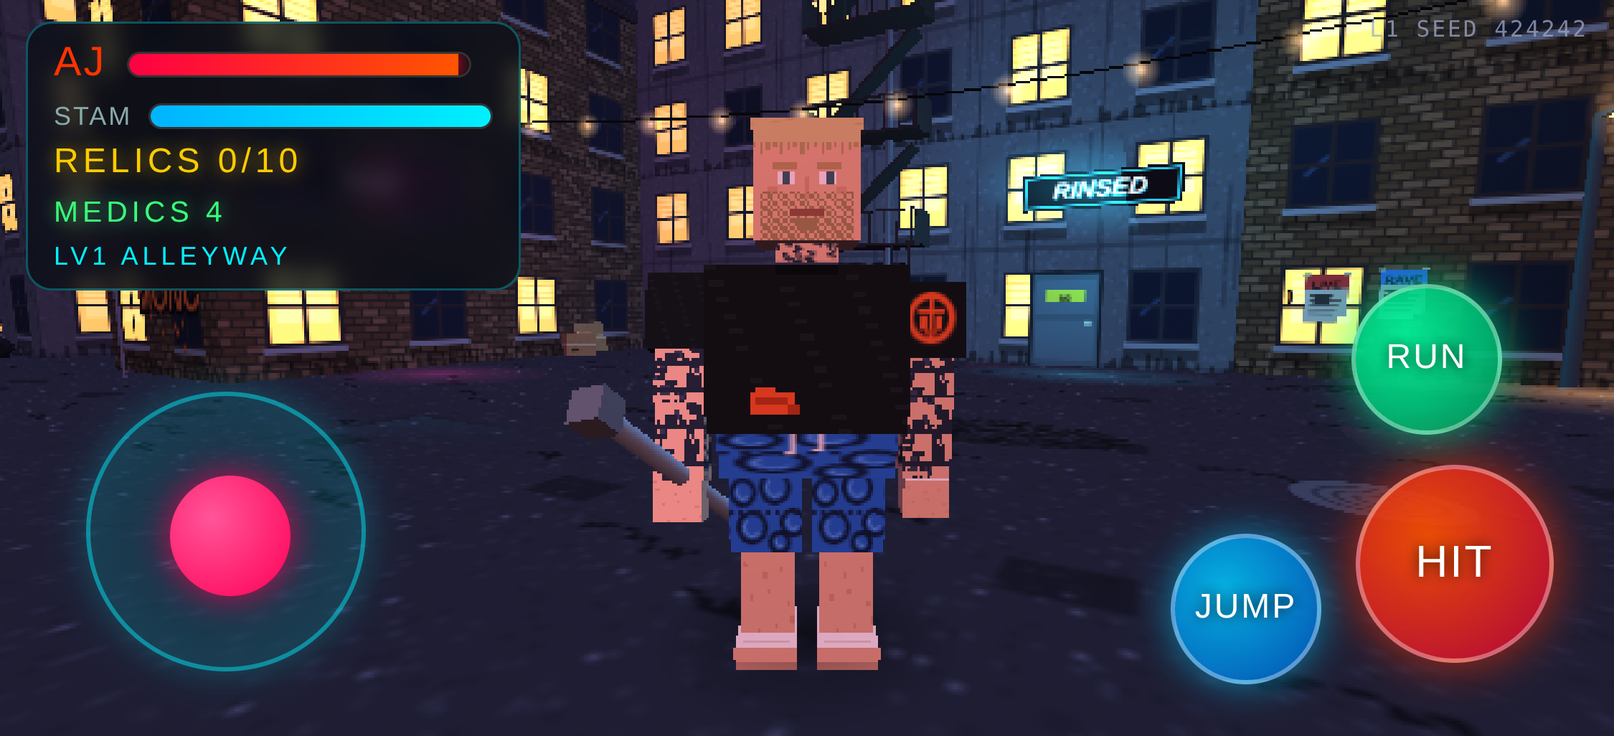
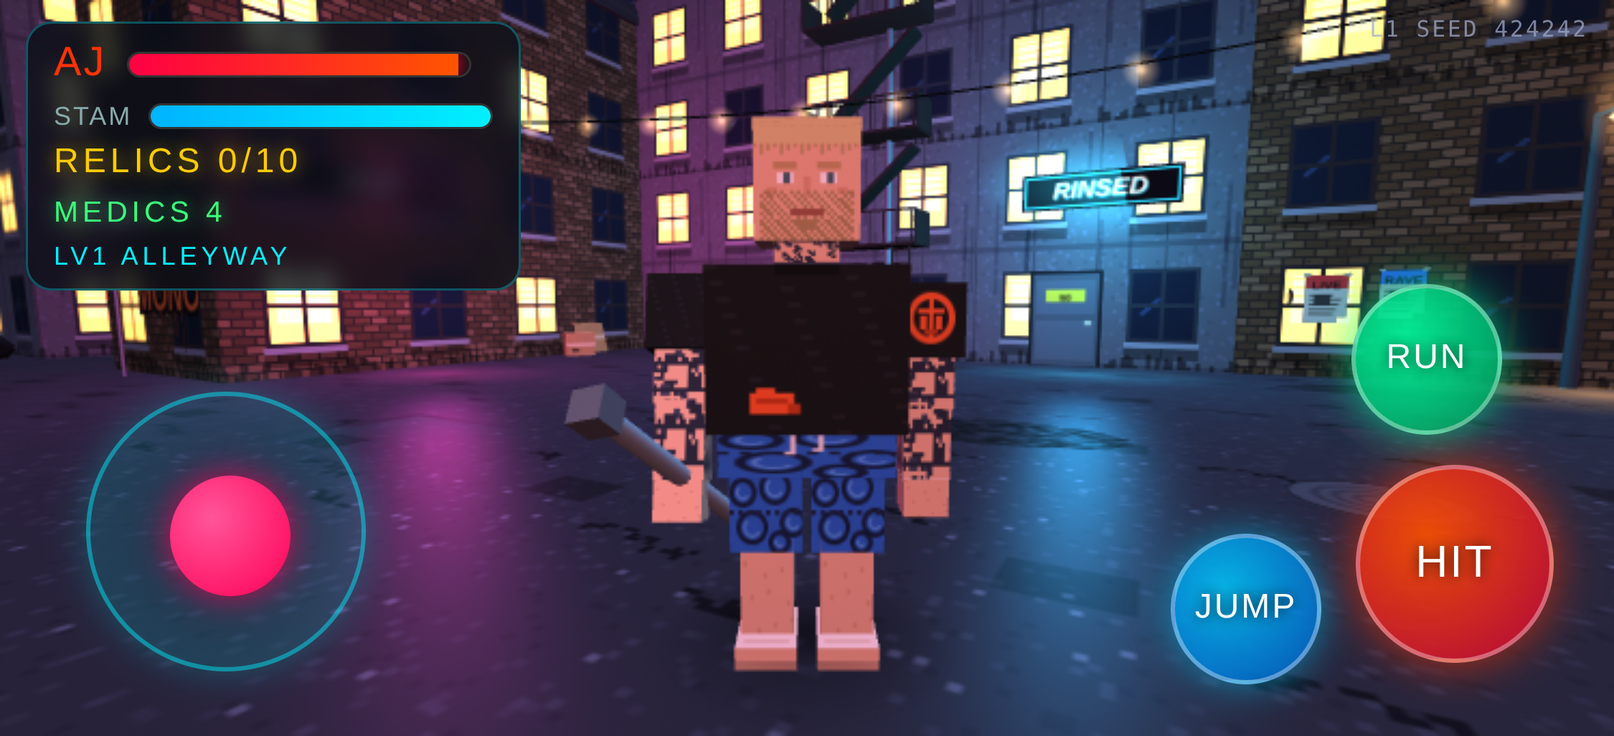
Cigarette-style relics; early-PS2 graphics pass (540p, mipmapped 2x textures, Phong, wet asphalt, lighter fog, MSAA, adaptive res)

diff --git a/index.html b/index.html
@@ -36,8 +36,6 @@
             width: 100%;
             height: 100%;
             display: block;
-            image-rendering: pixelated;
-            image-rendering: crisp-edges;
         }
 
         /* OVERLAYS */
@@ -489,18 +487,29 @@
         }
 
         /* --- INIT --- */
-        // N64-style: low internal resolution, upscaled with pixelated CSS
-        const RENDER_HEIGHT = 300;
-        function renderScale() { return Math.min(1, RENDER_HEIGHT / Math.max(1, window.innerHeight)); }
+        // early-PS2 look: ~540px internal height (native on most phones in landscape), smooth upscale
+        const RENDER_HEIGHT = 540;
+        let renderCap = RENDER_HEIGHT; // lowered automatically if the phone can't hold ~30 fps
+        function renderScale() { return Math.min(1, renderCap / Math.max(1, window.innerHeight)); }
+        // adaptive resolution: if the frame rate sags below ~28fps for 3s, step the internal height down (min 300)
+        let perfT = 0, perfN = 0;
+        function perfGuard(rawDt) {
+            if (gameState !== 'playing' || window.__noAdapt) { perfT = perfN = 0; return; }
+            perfT += rawDt; perfN++;
+            if (perfT < 3) return;
+            const fps = perfN / perfT; perfT = perfN = 0;
+            const cur = Math.min(renderCap, window.innerHeight);
+            if (fps < 28 && cur > 300) { renderCap = Math.max(300, Math.round(cur * 0.8)); onWindowResize(); }
+        }
         function init() {
             clock = new THREE.Clock();
             scene = new THREE.Scene();
             scene.background = new THREE.Color(0x1a1530);
-            scene.fog = new THREE.Fog(0x1a1530, 9, 48); // heavy GoldenEye-style distance fog
+            scene.fog = new THREE.Fog(0x1a1530, 16, 88); // lighter fog, longer draw distance
 
-            camera = new THREE.PerspectiveCamera(60, window.innerWidth / window.innerHeight, 0.1, 60);
+            camera = new THREE.PerspectiveCamera(60, window.innerWidth / window.innerHeight, 0.1, 95);
 
-            renderer = new THREE.WebGLRenderer({ canvas: $('canvas3d'), antialias: false, powerPreference: 'high-performance' });
+            renderer = new THREE.WebGLRenderer({ canvas: $('canvas3d'), antialias: true, powerPreference: 'high-performance' });
             renderer.setPixelRatio(1);
             const s = renderScale();
             renderer.setSize(Math.round(window.innerWidth * s), Math.round(window.innerHeight * s), false);
@@ -546,7 +555,7 @@
             const T = {};
             T.tattooArm = pixTex(16, 16, (g) => { px(g, 0, 0, SK, 16, 16); ink(g, 16, 16, 16, 1); px(g, 3, 3, INK, 4, 3); px(g, 10, 9, INK, 4, 4); px(g, 2, 11, INK2, 3, 3); for (let y = 5; y < 16; y += 7) px(g, 0, y, INK, 16, 1); }, true);
             T.neck = pixTex(32, 16, (g) => { px(g, 0, 0, SK, 32, 16); ink(g, 32, 12, 22, 7); px(g, 0, 12, INK2, 32, 4); }, true);
-            T.skin = new THREE.MeshLambertMaterial({ color: 0xe9b494 });
+            T.skin = phong({ color: 0xe9b494 });
             T.skinTex = pixTex(16, 16, (g) => { px(g, 0, 0, SK, 16, 16); for (let i = 0; i < 10; i++) px(g, (i * 7) % 16, (i * 5) % 16, SK2); }, true);
             T.foot = pixTex(16, 16, (g) => { px(g, 0, 0, SK, 16, 16); px(g, 5, 4, INK, 6, 2); px(g, 6, 6, INK, 2, 4); px(g, 9, 7, INK2, 3, 2); px(g, 2, 13, SK2, 12, 1); }, true);
             // face: buzzed light-blond hair line, light brows, blue-grey eyes, stubbly beard
@@ -595,12 +604,12 @@
                 for (let x = 0; x < 32; x += 4) px(g, x, 15, '#1a2448', 2, 2);
             }, true);
             T.shortsFront = pixTex(32, 32, (g) => {
-                g.drawImage(T.shorts.image, 0, 0);
+                g.drawImage(T.shorts.image, 0, 0, 32, 32);
                 px(g, 0, 0, '#1a3a8a', 32, 4);                                            // waistband
                 px(g, 13, 3, '#f0f0f0', 1, 12); px(g, 18, 3, '#f0f0f0', 1, 10);            // white drawstrings
                 px(g, 12, 15, '#f0f0f0', 2, 2); px(g, 17, 13, '#f0f0f0', 2, 2);
             }, true);
-            const L = (map) => new THREE.MeshLambertMaterial({ map });
+            const L = (map) => phong({ map });
             const M = {};
             for (const k in T) M[k] = T[k].isTexture ? L(T[k]) : T[k];
             TEX.aj = M;
@@ -641,9 +650,9 @@
                 arms[s === 1 ? 'L' : 'R'] = sh;
             }
             // Melee Pipe Weapon (in his right hand)
-            pipeWeapon = new THREE.Mesh(new THREE.CylinderGeometry(0.045, 0.045, 1.1, 6), new THREE.MeshLambertMaterial({ color: 0x8a949c }));
+            pipeWeapon = new THREE.Mesh(new THREE.CylinderGeometry(0.045, 0.045, 1.1, 10), phong({ color: 0x8a949c }));
             player.add(pipeWeapon);
-            const elbow = new THREE.Mesh(new THREE.BoxGeometry(0.13, 0.13, 0.13), new THREE.MeshLambertMaterial({ color: 0x5a6068 }));
+            const elbow = new THREE.Mesh(new THREE.BoxGeometry(0.13, 0.13, 0.13), phong({ color: 0x5a6068 }));
             elbow.position.y = 0.55; pipeWeapon.add(elbow);
             player.userData.parts = { legL: legs[1], legR: legs[0], armL: arms.L, armR: arms.R, head, torso };
             player.position.set(0, 0, 0);
@@ -656,19 +665,25 @@
         // texture randomness uses its own stream so textures never change between maps
         let _tseed = 777;
         function srandT() { _tseed = (_tseed * 16807) % 2147483647; return (_tseed - 1) / 2147483646; }
-        function pixTex(w, h, draw, nearest) {
-            const c = document.createElement('canvas'); c.width = w; c.height = h;
-            const g = c.getContext('2d'); g.imageSmoothingEnabled = false;
+        // textures are drawn in "design pixels" and supersampled 2x (64 -> 128, 128 -> 256),
+        // then filtered linearly with mipmaps (smooth PS2-era look instead of chunky nearest-neighbour)
+        const TEX_SS = 2;
+        function pixTex(w, h, draw) {
+            const c = document.createElement('canvas'); c.width = w * TEX_SS; c.height = h * TEX_SS;
+            const g = c.getContext('2d'); g.imageSmoothingEnabled = true; g.scale(TEX_SS, TEX_SS);
             draw(g, w, h);
             const t = new THREE.CanvasTexture(c);
-            t.generateMipmaps = false;
-            t.minFilter = THREE.LinearFilter;
-            t.magFilter = nearest ? THREE.NearestFilter : THREE.LinearFilter;
+            const pot = (n) => (n & (n - 1)) === 0;
+            t.generateMipmaps = pot(c.width) && pot(c.height);
+            t.minFilter = t.generateMipmaps ? THREE.LinearMipmapLinearFilter : THREE.LinearFilter;
+            t.magFilter = THREE.LinearFilter;
+            t.anisotropy = 2;
             t.wrapS = t.wrapT = THREE.RepeatWrapping;
             return t;
         }
         function px(g, x, y, c, w = 1, h = 1) { g.fillStyle = c; g.fillRect(x, y, w, h); }
-        function lambert(o) { return new THREE.MeshLambertMaterial(Object.assign({ dithering: true }, o)); }
+        function phong(o) { return new THREE.MeshPhongMaterial(Object.assign({ specular: 0x0c0c0c, shininess: 10, dithering: true }, o)); }
+        function lambert(o) { return phong(o); } // per-pixel shading (was Gouraud Lambert)
 
         function drawWindows(g, ge, frame) {
             for (let by = 0; by < 2; by++) for (let bx = 0; bx < 2; bx++) {
@@ -714,8 +729,8 @@
                 drawWindows(g, ge, kind === 'concrete' ? '#2a2c34' : '#2a2226');
             });
             const em = new THREE.CanvasTexture(e);
-            em.generateMipmaps = false; em.minFilter = THREE.LinearFilter; em.wrapS = em.wrapT = THREE.RepeatWrapping;
-            return lambert({ map, emissive: 0xffffff, emissiveMap: em, emissiveIntensity: 0.9 });
+            em.minFilter = THREE.LinearMipmapLinearFilter; em.wrapS = em.wrapT = THREE.RepeatWrapping;
+            return lambert({ map, emissive: 0xffffff, emissiveMap: em, emissiveIntensity: 1.15 });
         }
         function signTex(text, color) {
             return pixTex(128, 32, (g) => {
@@ -740,7 +755,7 @@
                 }
                 px(g, 10, 40, 'rgba(0,0,0,0.3)', 12, 8); // oil stain
             });
-            TEX.ground = lambert({ map: TEX.asphalt });
+            TEX.ground = phong({ map: TEX.asphalt, specular: 0x4a5468, shininess: 38 }); // wet-asphalt sheen under the lamps
             TEX.ground.map.repeat.set(40, 40);
             TEX.rust = lambert({ map: pixTex(64, 32, (g) => {
                 px(g, 0, 0, '#2a5a44', 64, 32);
@@ -887,13 +902,13 @@
         const LEVELS = [
             {
                 id: 'alley', name: 'ALLEYWAY', sub: 'Alleyway Adventure', river: false,
-                bg: 0x1a1530, fogNear: 9, fogFar: 48, hemiSky: 0x8a86c8, hemiGround: 0x2a1a22, hemiI: 0.75, amb: 0x30283c, ambI: 0.45, moon: 0xa8b4ff, moonI: 0.5,
+                bg: 0x1a1530, fogNear: 16, fogFar: 88, hemiSky: 0x8a86c8, hemiGround: 0x2a1a22, hemiI: 0.75, amb: 0x30283c, ambI: 0.45, moon: 0xa8b4ff, moonI: 0.5,
                 lamp: 0xffb060, pool: 0x8a5a24, warm: 0xffa050, barrels: 7,
                 signs: [['RINSED', '#2ad8ff', 0x2ad8ff], ['BAR', '#ff2a8a', 0xff2a8a], ['PAWN', '#ff6a2a', 0xff6a2a], ['24H', '#6aff3a', 0x6aff3a], ['MOTEL', '#ff2a8a', 0xff2a8a], ['NOODLE', '#2ad8ff', 0x2ad8ff], ['ARCADE', '#ffd02a', 0xffd02a], ['TATTOO', '#b04aff', 0xb04aff], ['LIQUOR', '#6aff3a', 0x6aff3a]]
             },
             {
                 id: 'river', name: 'RIVERSIDE', sub: 'Riverside Camp', river: true,
-                bg: 0x34203a, fogNear: 8, fogFar: 46, hemiSky: 0xc08a90, hemiGround: 0x1a1420, hemiI: 0.7, amb: 0x3a2a34, ambI: 0.45, moon: 0xffa080, moonI: 0.35,
+                bg: 0x34203a, fogNear: 15, fogFar: 84, hemiSky: 0xc08a90, hemiGround: 0x1a1420, hemiI: 0.7, amb: 0x3a2a34, ambI: 0.45, moon: 0xffa080, moonI: 0.35,
                 lamp: 0xff9030, pool: 0x9a5010, warm: 0xff8a28, barrels: 11,
                 signs: [['PIER 9', '#2ad8ff', 0x2ad8ff], ['MOTEL', '#ff2a8a', 0xff2a8a], ['DINER', '#ff6a2a', 0xff6a2a], ['24H', '#6aff3a', 0x6aff3a], ['LIQUOR', '#ff2a8a', 0xff2a8a], ['CAFE', '#2ad8ff', 0x2ad8ff], ['TAXI', '#ffd02a', 0xffd02a], ['BRIDGE ST', '#b04aff', 0xb04aff], ['HOTEL', '#6aff3a', 0x6aff3a]]
             }
@@ -919,7 +934,7 @@
                 for (let k = 0; k < 9; k++) { const y = srandT() * 64 | 0, x = srandT() * 64 | 0; px(g, x, y, '#3a7a88', 8 + srandT() * 8 | 0, 1); }
             });
             TEX.waterTex.repeat.set(36, 5);
-            TEX.water = new THREE.MeshLambertMaterial({ map: TEX.waterTex, emissive: 0x0a1a22, emissiveIntensity: 1 });
+            TEX.water = phong({ map: TEX.waterTex, emissive: 0x0a1a22, emissiveIntensity: 1 });
             TEX.waterHiTex = pixTex(64, 64, (g) => {
                 g.clearRect(0, 0, 64, 64);
                 for (let k = 0; k < 14; k++) { const y = srandT() * 64 | 0, x = srandT() * 64 | 0; px(g, x, y, 'rgba(255,170,90,0.55)', 4 + srandT() * 10 | 0, 1); }
@@ -1304,7 +1319,7 @@
                 sign.position.set(x, y, z);
                 sign.rotation.y = Math.atan2(s.nx, s.nz);
                 cityGroup.add(sign);
-                const halo = new THREE.Sprite(new THREE.SpriteMaterial({ map: TEX.glow, color: hex, transparent: true, opacity: 0.55, blending: THREE.AdditiveBlending, depthWrite: false }));
+                const halo = new THREE.Sprite(new THREE.SpriteMaterial({ map: TEX.glow, color: hex, transparent: true, opacity: 0.75, blending: THREE.AdditiveBlending, depthWrite: false }));
                 halo.position.set(x + s.nx * 0.3, y, z + s.nz * 0.3); halo.scale.set(6, 2.6, 1);
                 cityGroup.add(halo);
                 // coloured spill on the wet ground
@@ -1367,7 +1382,7 @@
                 if (srand() < 0.18) {
                     const u = (srand() - 0.5) * 5;
                     const [x, , z] = W(s, u, 0, 0.14);
-                    pipes.add(GEO.pipe || (GEO.pipe = new THREE.CylinderGeometry(0.1, 0.1, 1, 6)), x, s.h / 2, z, 0, 0, 0, 1, s.h, 1);
+                    pipes.add(GEO.pipe || (GEO.pipe = new THREE.CylinderGeometry(0.1, 0.1, 1, 10)), x, s.h / 2, z, 0, 0, 0, 1, s.h, 1);
                     if (srand() < 0.5) { const [x2, , z2] = W(s, 0, 0, 0.18); pipes.add(GEO.pipe, x2, 2.8 + srand() * 2, z2, ry, Math.PI / 2, 0, 1.3, 6, 1.3); }
                 }
                 // wall AC unit
@@ -1440,9 +1455,9 @@
 
             // street lamps: instanced poles/arms, glow sprites as one Points cloud, warm light pools on the ground
             if (lampSpots.length) {
-                const poles = new THREE.InstancedMesh(GEO.pole || (GEO.pole = new THREE.CylinderGeometry(0.08, 0.12, 5, 6)), metalMat, lampSpots.length);
+                const poles = new THREE.InstancedMesh(GEO.pole || (GEO.pole = new THREE.CylinderGeometry(0.08, 0.12, 5, 10)), metalMat, lampSpots.length);
                 const arms = new THREE.InstancedMesh(unitBox(), metalMat, lampSpots.length);
-                const heads = new THREE.InstancedMesh(GEO.lampHead || (GEO.lampHead = new THREE.CylinderGeometry(0.12, 0.35, 0.3, 6)), new THREE.MeshBasicMaterial({ color: new THREE.Color(LV.lamp).lerp(new THREE.Color(0xffffff), 0.4) }), lampSpots.length);
+                const heads = new THREE.InstancedMesh(GEO.lampHead || (GEO.lampHead = new THREE.CylinderGeometry(0.12, 0.35, 0.3, 10)), new THREE.MeshBasicMaterial({ color: new THREE.Color(LV.lamp).lerp(new THREE.Color(0xffffff), 0.4) }), lampSpots.length);
                 const pools = new THREE.InstancedMesh(GEO.pool || (GEO.pool = new THREE.PlaneGeometry(1, 1)), TEX.pool, lampSpots.length);
                 [poles, arms, heads, pools].forEach(m => m.userData.sharedGeo = true);
                 const glowPos = [];
@@ -1456,7 +1471,7 @@
                 });
                 cityGroup.add(poles, arms, heads, pools);
                 const gg = new THREE.BufferGeometry(); gg.setAttribute('position', new THREE.Float32BufferAttribute(glowPos, 3));
-                cityGroup.add(new THREE.Points(gg, new THREE.PointsMaterial({ map: TEX.glow, color: LV.lamp, size: 3.2, transparent: true, opacity: 0.8, blending: THREE.AdditiveBlending, depthWrite: false })));
+                cityGroup.add(new THREE.Points(gg, new THREE.PointsMaterial({ map: TEX.glow, color: LV.lamp, size: 3.6, transparent: true, opacity: 0.95, blending: THREE.AdditiveBlending, depthWrite: false })));
                 // two real warm lights: the lamps closest to spawn
                 lampSpots.slice().sort((a, b) => Math.hypot(a[0], a[1]) - Math.hypot(b[0], b[1])).slice(0, 2).forEach(([x, z, nx, nz]) => {
                     const pl = new THREE.PointLight(LV.warm, 1.3, 16, 1.5);
@@ -1658,11 +1673,19 @@
         const SHARED = {};
         function sharedAssets() {
             if (SHARED.ready) return SHARED;
-            SHARED.relicGeo = new THREE.OctahedronGeometry(0.42, 0);
-            SHARED.relicMat = new THREE.MeshLambertMaterial({ color: 0xffcc00, emissive: 0xffaa00, emissiveIntensity: 0.9 });
-            SHARED.haloMat = new THREE.SpriteMaterial({ map: TEX.glow, color: 0xffc020, transparent: true, opacity: 0.7, blending: THREE.AdditiveBlending, depthWrite: false });
+            // relic: ~0.5m thin white open-ended tube (cigarette-like), charred black end, hollow ends
+            SHARED.relicPaperGeo = new THREE.CylinderGeometry(0.045, 0.045, 0.42, 14, 1, true).translate(0, -0.04, 0);
+            SHARED.relicInnerGeo = new THREE.CylinderGeometry(0.036, 0.036, 0.5, 14, 1, true);
+            SHARED.relicCharGeo = new THREE.CylinderGeometry(0.047, 0.046, 0.08, 14, 1, true).translate(0, 0.21, 0);
+            SHARED.relicRimGeo = new THREE.RingGeometry(0.036, 0.047, 14).rotateX(-Math.PI / 2);
+            SHARED.relicMat = phong({ color: 0xf4f2ec, emissive: 0x2a2826, specular: 0x333333, shininess: 20, side: THREE.DoubleSide });
+            SHARED.relicInnerMat = phong({ color: 0x3a3430, side: THREE.DoubleSide });
+            SHARED.relicCharMat = phong({ color: 0x141110, emissive: 0x0a0605, side: THREE.DoubleSide });
+            SHARED.relicAshMat = phong({ color: 0x2a2624, side: THREE.DoubleSide });
+            SHARED.emberMat = new THREE.SpriteMaterial({ map: TEX.glow, color: 0xff6a20, transparent: true, opacity: 0.55, blending: THREE.AdditiveBlending, depthWrite: false });
+            SHARED.haloMat = new THREE.SpriteMaterial({ map: TEX.glow, color: 0xfff0d8, transparent: true, opacity: 0.6, blending: THREE.AdditiveBlending, depthWrite: false });
             SHARED.ringGeo = new THREE.RingGeometry(0.55, 0.8, 16);
-            SHARED.ringMat = new THREE.MeshBasicMaterial({ color: 0xffcc00, transparent: true, opacity: 0.5, side: THREE.DoubleSide, depthWrite: false });
+            SHARED.ringMat = new THREE.MeshBasicMaterial({ color: 0xfff0d0, transparent: true, opacity: 0.5, side: THREE.DoubleSide, depthWrite: false });
             SHARED.box = {};
             SHARED.mat = {};
             SHARED.hpBarGeo = new THREE.PlaneGeometry(0.8, 0.08);
@@ -1670,7 +1693,7 @@
             SHARED.hpMat = new THREE.MeshBasicMaterial({ color: 0xff2244 });
             SHARED.crossMat = new THREE.MeshBasicMaterial({ color: 0x39ff7a });
             SHARED.skirtGeo = new THREE.ConeGeometry(0.46, 0.5, 4, 1, true);
-            SHARED.batGeo = new THREE.CylinderGeometry(0.045, 0.085, 1.0, 6);
+            SHARED.batGeo = new THREE.CylinderGeometry(0.045, 0.085, 1.0, 10);
             SHARED.ready = true;
             return SHARED;
         }
@@ -1680,7 +1703,7 @@
         }
         function mat(color, extra) {
             const k = color + (extra ? JSON.stringify(extra) : '');
-            return SHARED.mat[k] || (SHARED.mat[k] = new THREE.MeshLambertMaterial(Object.assign({ color: color }, extra || {})));
+            return SHARED.mat[k] || (SHARED.mat[k] = phong(Object.assign({ color: color }, extra || {})));
         }
         function part(group, w, h, d, color, x, y, z, shadow) {
             const m = new THREE.Mesh(boxGeo(w, h, d), mat(color));
@@ -1731,7 +1754,15 @@
             sharedAssets();
             mapInfo.relics.forEach(([x, z, y]) => {
                 const g = new THREE.Group();
-                const gem = new THREE.Mesh(SHARED.relicGeo, SHARED.relicMat);
+                const gem = new THREE.Group();
+                const tube = new THREE.Group();
+                tube.add(new THREE.Mesh(SHARED.relicPaperGeo, SHARED.relicMat), new THREE.Mesh(SHARED.relicInnerGeo, SHARED.relicInnerMat), new THREE.Mesh(SHARED.relicCharGeo, SHARED.relicCharMat));
+                const rimTop = new THREE.Mesh(SHARED.relicRimGeo, SHARED.relicAshMat); rimTop.position.y = 0.25;
+                const rimBot = new THREE.Mesh(SHARED.relicRimGeo, SHARED.relicMat); rimBot.position.y = -0.25; rimBot.rotation.x = Math.PI;
+                const ember = new THREE.Sprite(SHARED.emberMat); ember.position.y = 0.27; ember.scale.set(0.22, 0.22, 1);
+                tube.add(rimTop, rimBot, ember);
+                tube.rotation.z = Math.PI / 2 - 0.25; // lies almost flat, charred end slightly raised
+                gem.add(tube);
                 const ring = new THREE.Mesh(SHARED.ringGeo, SHARED.ringMat);
                 ring.rotation.x = -Math.PI / 2;
                 ring.position.y = (y > 2 ? y - 1.05 : 0.03) - y;
@@ -1740,7 +1771,7 @@
                 g.add(gem, ring, halo);
                 g.position.set(x, y, z);
                 dynamicGroup.add(g);
-                relics.push({ mesh: g, gem, baseY: y, taken: false, phase: Math.random() * 6 });
+                relics.push({ mesh: g, gem, halo, baseY: y, taken: false, phase: Math.random() * 6 });
             });
             mapInfo.thugs.forEach(([x, z], i) => thugs.push(makeThug(x, z, i)));
             mapInfo.girls.forEach(([x, z], i) => healers.push(makeGirl(x, z, GIRL_LOOKS[i % GIRL_LOOKS.length])));
@@ -1843,14 +1874,14 @@
                     for (let i = 0; i < 16; i++) px(g, 3 + (i * 7) % 10, 10 + (i * 3) % 5, 'rgba(120,90,60,0.5)', 1, 1);
                 }
             }, true);
-            const s = new THREE.MeshLambertMaterial({ color: skin });
-            const f = new THREE.MeshLambertMaterial({ map: tex });
+            const s = phong({ color: skin });
+            const f = phong({ map: tex });
             return (FACES[key] = [s, s, s, s, f, s]);
         }
         function n64ifyCharacter(root) {
             root.traverse(o => {
                 if (o.isMesh && o.material && o.material.isMeshStandardMaterial) {
-                    o.material = new THREE.MeshLambertMaterial({ color: o.material.color });
+                    o.material = phong({ color: o.material.color });
                 }
             });
         }
@@ -1864,7 +1895,7 @@
         }
         function limbGeo(r, len) {
             const k = 'limb' + r + 'x' + len;
-            return GEO[k] || (GEO[k] = new THREE.CylinderGeometry(r * 0.85, r, len, 6));
+            return GEO[k] || (GEO[k] = new THREE.CylinderGeometry(r * 0.85, r, len, 10));
         }
         function limb(parent, r, len, color, y) {
             const m = new THREE.Mesh(limbGeo(r, len), mat(color));
@@ -2703,6 +2734,7 @@
         /* --- CAMERA --- */
         const _camTarget = new THREE.Vector3(), _camDesired = new THREE.Vector3();
         function updateCamera(dt) {
+            if (window.__freezeCam) return;
             const p = player.position;
             _camTarget.set(p.x, p.y + 1.7, p.z);
             // while AJ is down, swing up to a high angle so the revive is visible over the alley walls
@@ -2738,7 +2770,9 @@
         /* --- GAME LOOP --- */
         function animate() {
             requestAnimationFrame(animate);
-            const dt = Math.min(clock.getDelta(), 0.05);
+            const rawDt = clock.getDelta();
+            const dt = Math.min(rawDt, 0.05);
+            perfGuard(rawDt);
             elapsed += dt;
 
             if (gameState === 'playing') {
@@ -2762,8 +2796,10 @@
             // relic spin
             for (const r of relics) {
                 if (r.taken) continue;
-                r.gem.rotation.y += dt * 2.5;
-                r.gem.rotation.x = Math.sin(elapsed * 1.3 + r.phase) * 0.3;
+                r.gem.rotation.y += dt * 1.1; // slow spin
+                r.gem.rotation.x = Math.sin(elapsed * 1.3 + r.phase) * 0.12;
+                const tw = 1.5 + Math.sin(elapsed * 3 + r.phase) * 0.25 + (Math.sin(elapsed * 11 + r.phase * 3) > 0.92 ? 0.35 : 0); // soft twinkle
+                r.halo.scale.set(tw, tw, 1);
                 r.gem.position.y = Math.sin(elapsed * 2 + r.phase) * 0.15;
             }
             // neon flicker + fires + steam
@@ -2820,6 +2856,19 @@
             },
             freezeDrain: (on) => { window.__noDrain = on; },
             level: () => currentLevel,
+            relicCloseup: () => { // camera right next to the nearest ground relic (AJ hidden) for a screenshot
+                const r = relics.filter(r => !r.taken && r.baseY < 2).sort((a, b) => a.mesh.position.distanceTo(player.position) - b.mesh.position.distanceTo(player.position))[0];
+                if (!r) return false;
+                const p = r.mesh.position, g = new THREE.Vector3(); r.gem.getWorldPosition(g);
+                window.__freezeCam = true; player.visible = false;
+                let best = null;
+                for (let k = 0; k < 16; k++) { const a = k / 16 * Math.PI * 2, cx = p.x + Math.sin(a) * 0.95, cz = p.z + Math.cos(a) * 0.95; if (!pointInWalls(cx, 1.4, cz, 0.2, true)) { best = [cx, cz]; break; } }
+                if (!best) return false;
+                camera.position.set(best[0], g.y + 0.35, best[1]); camera.lookAt(g.x, g.y, g.z);
+                return true;
+            },
+            relicCloseupEnd: () => { window.__freezeCam = false; player.visible = true; },
+            renderInfo: () => ({ cap: renderCap, w: renderer.domElement.width, h: renderer.domElement.height }),
             ajCloseup: () => { window.__camDist = 2.9; window.__camTargetY = 1.3; cameraAngleX = player.rotation.y; cameraAngleY = 0.1; updateCamera(1); },
             camReset: () => { delete window.__camDist; delete window.__camTargetY; },
             // place AJ ~d metres from a target with a clear camera line behind him, facing the target

diff --git a/test/test.js b/test/test.js
@@ -9,6 +9,7 @@ const { chromium, devices } = require('playwright');
   const S = () => page.evaluate(() => RINSED.state());
   const W = (ms) => page.waitForTimeout(ms);
   const ok = (name, cond) => console.log((cond ? 'PASS ' : 'FAIL ') + name);
+  await page.addInitScript(() => { window.__noAdapt = true; });
   await page.goto('http://localhost:8765/index.html?seed=' + (process.env.SEED || '424242'));
   await W(2500);
   const vp = page.viewportSize();
@@ -37,6 +38,23 @@ const { chromium, devices } = require('playwright');
   await page.tap('#btn-hit'); await W(120);
   await page.screenshot({ path: '../shot-aj-swing.png' });
   await page.evaluate(() => RINSED.camReset());
+  // relic close-up: pick a ground relic, put AJ next to it, camera low and close
+  const framed = await page.evaluate(() => {
+    const spots = RINSED.relicSpots().filter(s => !(s[2] > 2));
+    for (const [x, z] of spots) for (const d of [2.2, 2.8, 3.4]) if (RINSED.frame(x, z, d)) { window.__camDist = 1.9; window.__camTargetY = 1.0; cameraAngleY = 0.12; player.position.x += (x - player.position.x) * 0.0; return [x, z, d]; }
+    return null;
+  });
+  console.log('relic framed', JSON.stringify(framed));
+  await page.evaluate(() => RINSED.camReset());
+  await W(300);
+  console.log('relic closeup', await page.evaluate(() => RINSED.relicCloseup()));
+  await W(700);
+  await page.screenshot({ path: '../shot-relic.png' });
+  await page.evaluate(() => RINSED.relicCloseupEnd());
+  // general level-1 gameplay shot
+  await page.evaluate(() => { const [x, z] = RINSED.relicSpots()[1]; RINSED.frame(x, z, 6); });
+  await W(900);
+  await page.screenshot({ path: '../shot-game.png' });
   // clear level 1 -> NEXT LEVEL
   await page.evaluate(() => RINSED.collectAll()); await W(1600);
   ok('level1 won + next visible', (await S()).gameState === 'won' && await page.isVisible('#btn-next'));
@@ -81,7 +99,7 @@ const { chromium, devices } = require('playwright');
   await page.tap('#lvl-alley'); await page.tap('#btn-start'); await W(800);
   ok('back to alley', (await page.evaluate(() => RINSED.level())) === 0);
   const fps = await page.evaluate(() => new Promise(r => { let n = 0; const t0 = performance.now(); (function f() { n++; if (performance.now() - t0 < 2000) requestAnimationFrame(f); else r(n / 2); })(); }));
-  console.log('fps (swiftshader, no GPU)', fps);
+  console.log('fps (swiftshader, no GPU)', fps, JSON.stringify(await page.evaluate(() => RINSED.renderInfo())));
   console.log('ERRORS:', errors.length ? errors : 'none');
   await browser.close();
 })();
